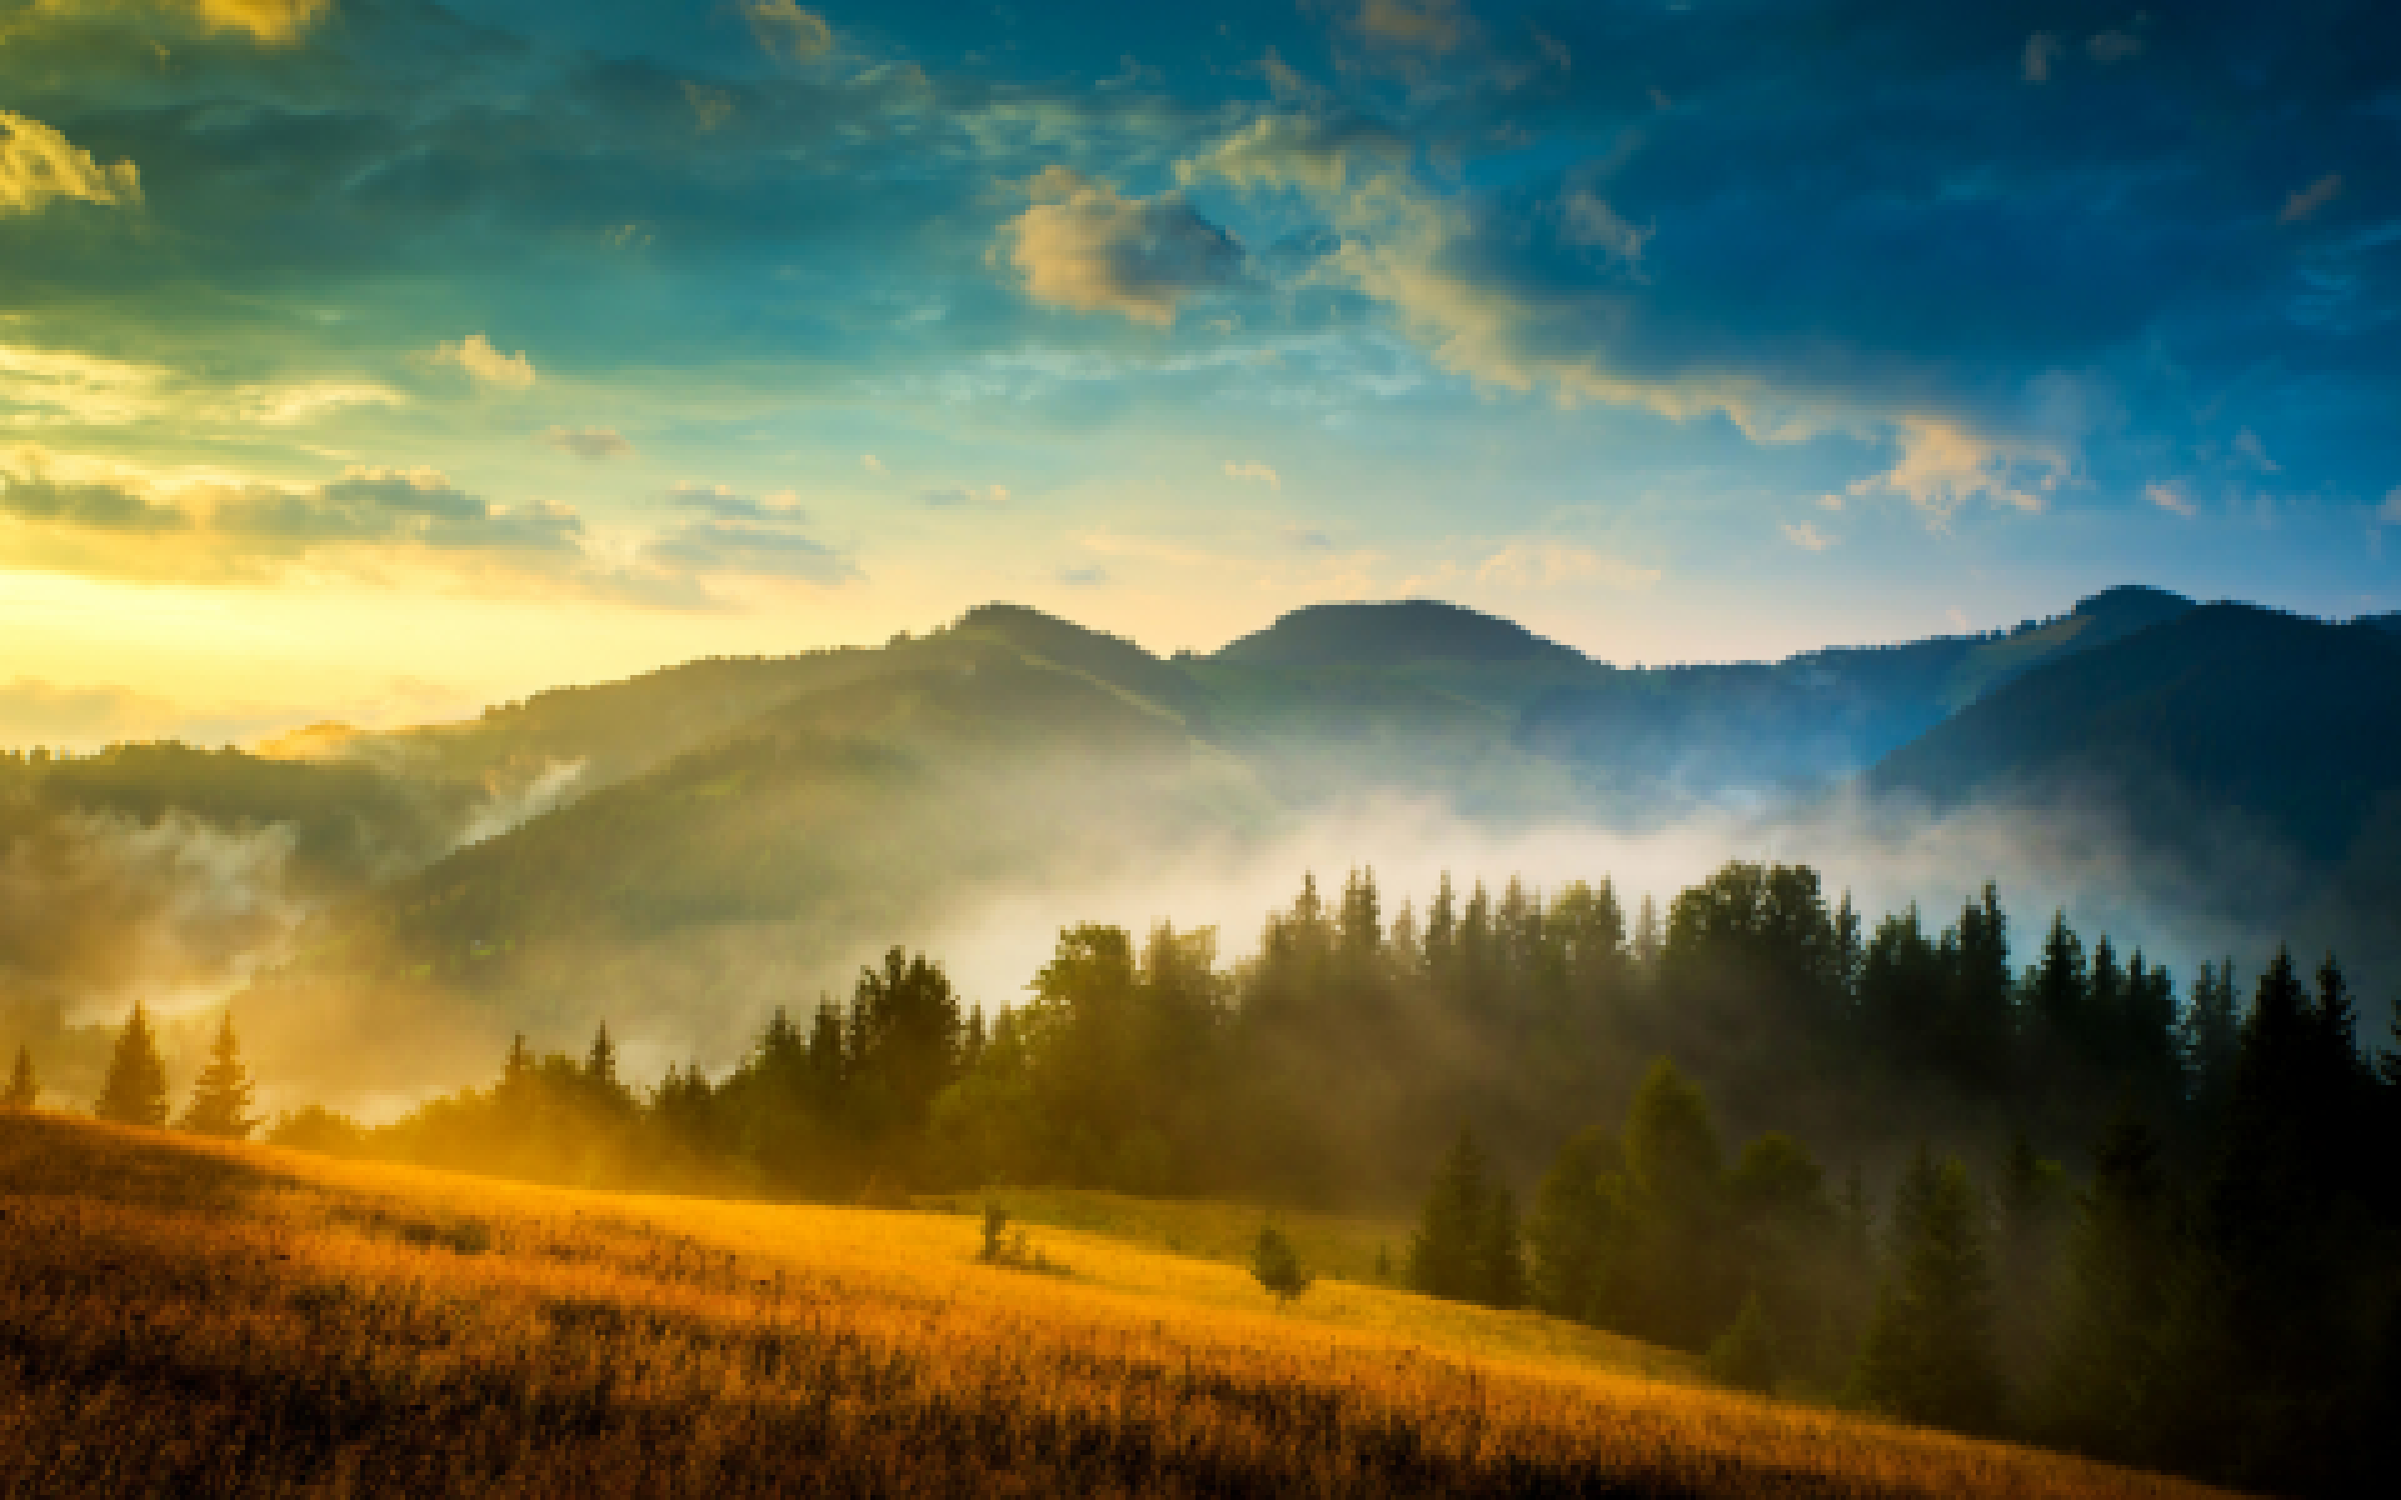
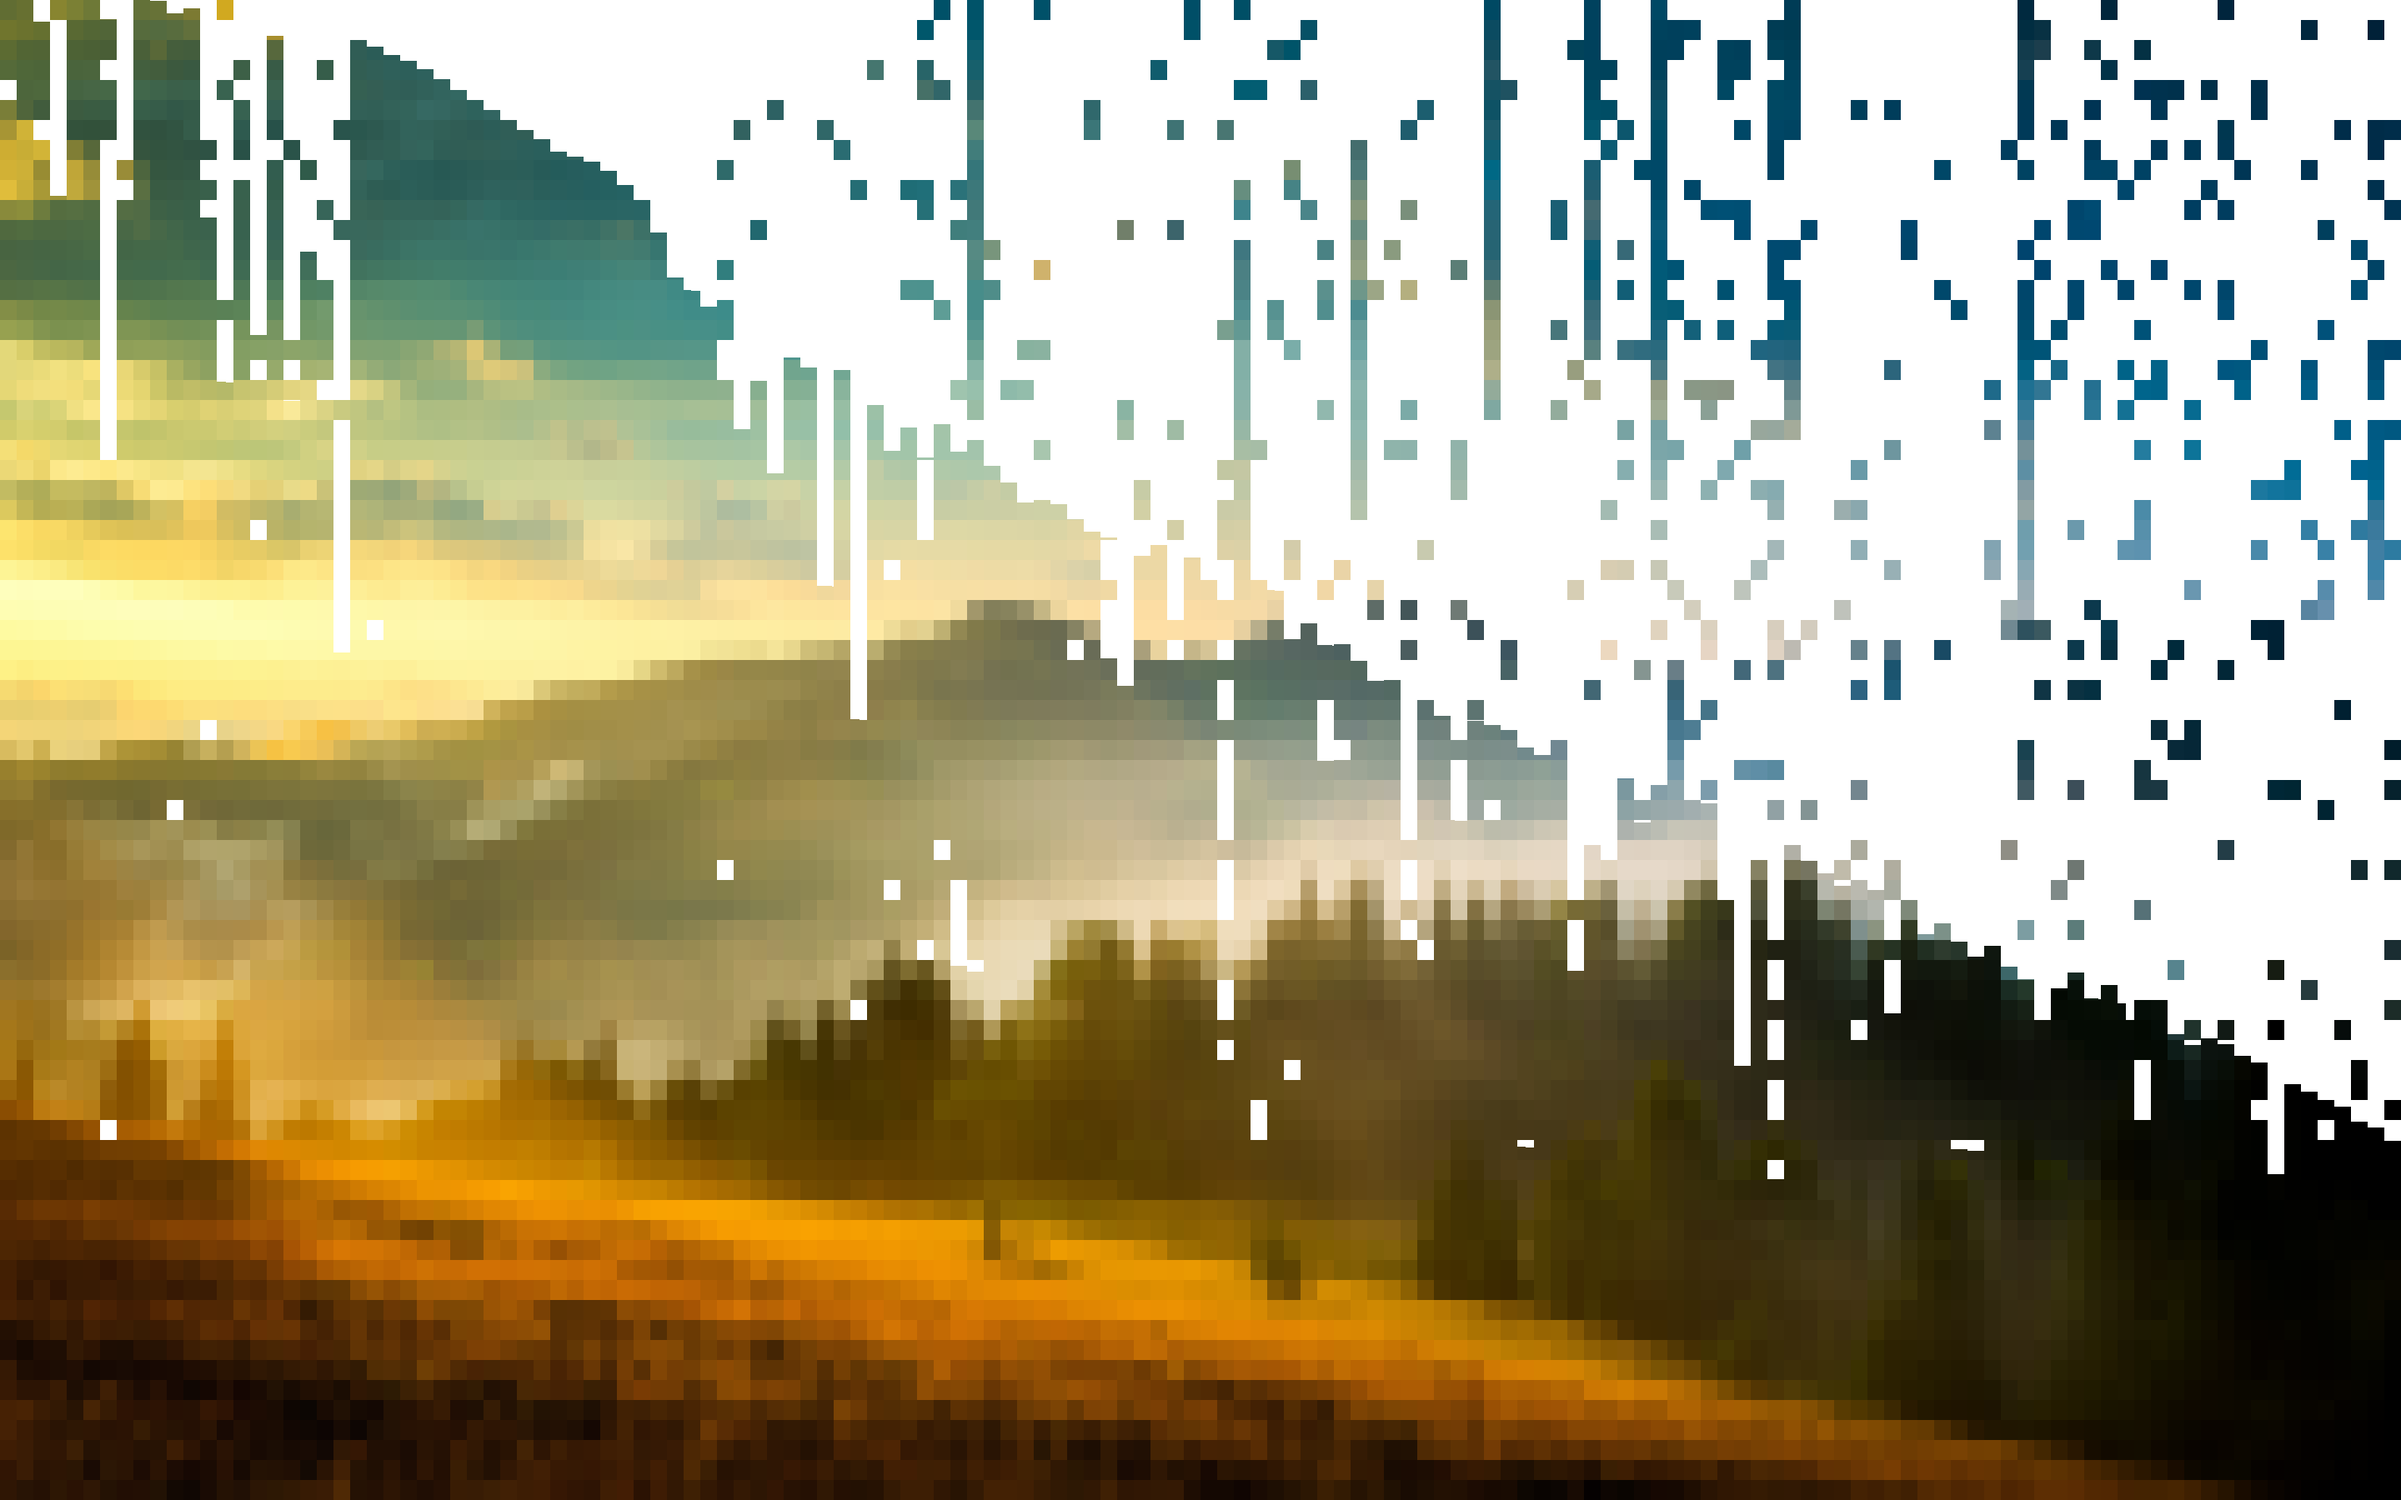
pourcentage modifiable fonctionnel

diff --git a/Niveau 2/projet_niveau2_server.go b/Niveau 2/projet_niveau2_server.go
@@ -6,14 +6,18 @@ import (
 	"image/color"
 	"image/png"
 	"io"
+	"math"
 	"net"
 	"os"
 	"strconv"
 	"strings"
+	"sync"
 )
 
 var newImg = image.NewRGBA(image.Rect(0, 0, 10, 10))
-var pourcentage_flou = 0.005
+var pourcentage_flou int64
+
+var blur_group sync.WaitGroup
 
 const BUFFERSIZE = 1024
 
@@ -83,6 +87,15 @@ func getFileFromClient(client_socket net.Conn) {
 	fmt.Println("Receiving the file")
 	bufferFileName := make([]byte, 64)
 	bufferFileSize := make([]byte, 10)
+	bufferPercentage := make([]byte, 3)
+
+	client_socket.Read(bufferPercentage)
+	println("**************Pourcentage flou est :")
+	//enlever les ":" inutiles
+	p_string := strings.Trim(string(bufferPercentage), ":")
+	//convertir en int64
+	pourcentage_flou, _ = strconv.ParseInt(p_string, 10, 64)
+	println(pourcentage_flou)
 
 	client_socket.Read(bufferFileSize)
 	fmt.Println(" ")
@@ -100,6 +113,7 @@ func getFileFromClient(client_socket net.Conn) {
 	if err != nil {
 		panic(err)
 	}
+
 	defer newFile.Close()
 	var receivedBytes int64
 
@@ -127,8 +141,21 @@ func fillString(retunString string, toLength int) string {
 	return retunString
 }
 
+/* func fillString(retunString string, toLength int) string {
+	for {
+		lengtString := len(retunString)
+		if lengtString < toLength {
+			retunString = retunString + ":"
+			continue
+		}
+		break
+	}
+	return retunString
+} */
+
 func do_box_blur() {
 
+	/// ENLEVER IMAGE TEMP
 	catFile, err := os.Open("/mnt/c/Users/eolia/Documents/INSA/3TC/ELP/3TC-GO-projet/Niveau 2/image_temp.png")
 	if err != nil {
 		fmt.Println(err)
@@ -142,17 +169,36 @@ func do_box_blur() {
 		return
 	}
 
-	nv_flou_x := 15
-	nv_flou_y := 10
+	// cette fois, le niveau de flou dépend du pourcentage donné (100% = moyenne de tous les pixels, 0% = image initiale) ça march po :((
+	// ca marche entre 15 et 80
+	if pourcentage_flou < 15 {
+		pourcentage_flou = 15
+	}
+	if pourcentage_flou > 80 {
+		pourcentage_flou = 80
+	}
+	x := float64(pourcentage_flou) / math.Log2(float64(cat.Bounds().Size().X))
+	nv_flou_x := int(math.Pow(2, x))
+	y := float64(pourcentage_flou) / math.Log2(float64(cat.Bounds().Size().Y))
+	nv_flou_y := int(math.Pow(2, y))
+	fmt.Println(nv_flou_x)
+	fmt.Println(nv_flou_y)
 
 	newImg = image.NewRGBA(image.Rect(0, 0, cat.Bounds().Size().X, cat.Bounds().Size().Y))
+
+	fmt.Println("WAITGROUP")
+	fmt.Println(&blur_group)
 
 	for i := 0; i < (cat.Bounds().Size().X); i = i + nv_flou_x {
 		for j := 0; j < (cat.Bounds().Size().Y); j = j + nv_flou_y {
 			//lancer la goroutine avec la modification de la nouvelle image (globale) direct dans la fonction
-			go box_blur(cat, nv_flou_x, nv_flou_y, i, j)
+			// OS.NumCPU
+			blur_group.Add(1)
+			// Ici on fait un wait group et un pool de workers
+			go box_blur(cat, nv_flou_x, nv_flou_y, i, j, &blur_group)
 		}
 	}
+	blur_group.Wait()
 
 	outputFile, err := os.Create("image_temp.png")
 	if err != nil {
@@ -163,7 +209,7 @@ func do_box_blur() {
 	outputFile.Close()
 }
 
-func box_blur(oldImg image.Image, nv_flou_x int, nv_flou_y int, i int, j int) /* *image.RGBA*/ {
+func box_blur(oldImg image.Image, nv_flou_x int, nv_flou_y int, i int, j int, blur_group *sync.WaitGroup) /* *image.RGBA*/ {
 
 	var newRed uint32
 	var newGreen uint32
@@ -204,4 +250,7 @@ func box_blur(oldImg image.Image, nv_flou_x int, nv_flou_y int, i int, j int) /*
 			newImg.Set(k, l, color.RGBA{newRedConv, newGreenConv, newBlueConv, newAlphaConv})
 		}
 	}
+	(*blur_group).Done()
 }
+
+///

diff --git a/Niveau 2/projet_niveau2_client.go b/Niveau 2/projet_niveau2_client.go
@@ -30,19 +30,23 @@ func answer(server_socket net.Conn) {
 
 func sendFileToServer(server_socket net.Conn) {
 	fmt.Println("Let's send the picture we want to modify")
-	/*var i string
-	fmt.Printf("Enter the name of the picture you want to blur (png only) :")
-	fmt.Scanf(i)
-	file, err := os.Open("/mnt/c/Users/eolia/Documents/INSA/3TC/ELP/3TC-GO-projet/i")
-	var p string
-	fmt.Printf("Enter the name of the percentage at which you want to blur :")
-	fmt.Scanf(p)*/
-	//file, err := os.Open("/mnt/c/Users/eolia/Documents/INSA/3TC/ELP/3TC-GO-projet/test3.png")
-	file, err := os.Open("/mnt/c/Users/eolia/Downloads/test3.png")
+	var i string
+	fmt.Printf("Enter the name of the picture you want to blur (png only) : ")
+	// Taking input from user
+	fmt.Scanln(&i)
+	file, err := os.Open("/mnt/c/Users/eolia/Documents/INSA/3TC/ELP/3TC-GO-projet/" + i)
 	if err != nil {
 		fmt.Println(err)
 		return
 	}
+	var p string
+	fmt.Printf("Enter the percentage at which you want to blur : ")
+	fmt.Scanln(&p)
+	p = fillString(p, 3)
+
+	//file, err := os.Open("/mnt/c/Users/eolia/Documents/INSA/3TC/ELP/3TC-GO-projet/test3.png")
+	//file, err := os.Open("/mnt/c/Users/eolia/Downloads/test3.png")
+
 	// on recup les stats du fichier demandé
 	fileInfo, err := file.Stat()
 	if err != nil {
@@ -51,7 +55,8 @@ func sendFileToServer(server_socket net.Conn) {
 	}
 	fileSize := fillString(strconv.FormatInt(fileInfo.Size(), 10), 10)
 	//print("File has a size of " + fileSize)
-	fileName := fillString(fileInfo.Name(), 64)
+	fileName := fillString(fileInfo.Name(), 2)
+	p_string := fillString(p, 3)
 
 	size := []byte(fileSize)
 	println(" ")
@@ -59,6 +64,11 @@ func sendFileToServer(server_socket net.Conn) {
 	fmt.Println(size)
 	println(" ")
 	println(" ")
+
+	println("en train d'envoyer p")
+	server_socket.Write([]byte(p_string))
+	println(p)
+	println("p envoyé")
 
 	server_socket.Write(size)
 
@@ -121,3 +131,8 @@ func fillString(retunString string, toLength int) string {
 	}
 	return retunString
 }
+
+/*
+func fillString(message string) string {
+	return message + "*"
+} */

diff --git a/Niveau 1/projet_niveau1.go b/Niveau 1/projet_niveau1.go
@@ -16,11 +16,13 @@ import (
 	"log"
 	"math"
 	"os"
+	"sync"
 	"time"
 )
 
 var newImg = image.NewRGBA(image.Rect(0, 0, 10, 10))
-var pourcentage_flou = 30
+var pourcentage_flou = 50
+var blur_group *sync.WaitGroup
 
 func main() {
 
@@ -51,6 +53,8 @@ func main() {
 	nv_flou_y := int(math.Pow(2, y))
 	fmt.Println(nv_flou_x)
 	fmt.Println(nv_flou_y)
+
+	// création du channel
 
 	//création nvelle image qui sera l'image floue finale à la taille de l'ancienne
 	newImg = image.NewRGBA(image.Rect(0, 0, cat.Bounds().Size().X, cat.Bounds().Size().Y))
